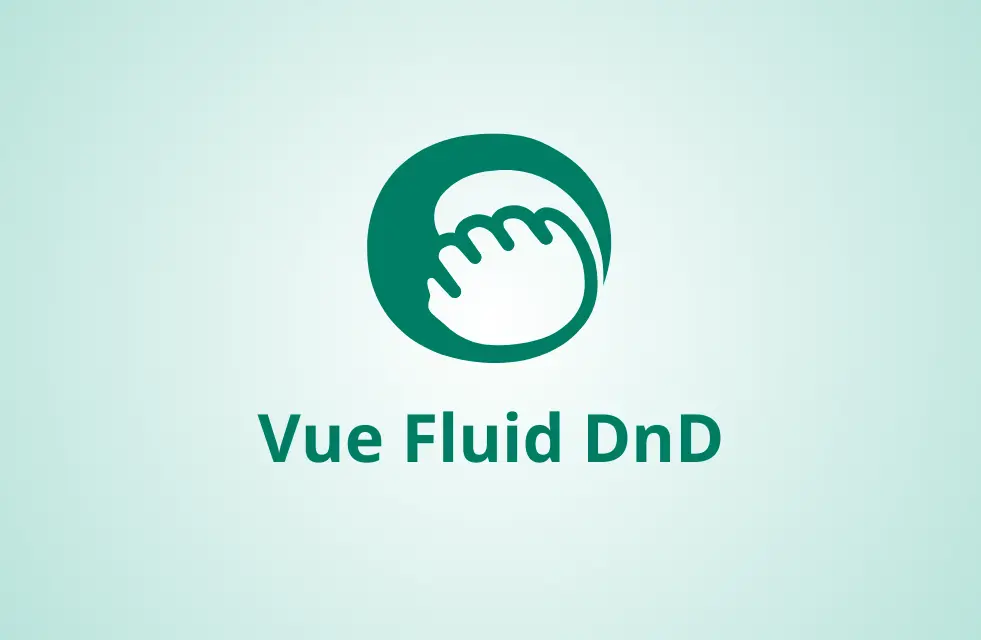
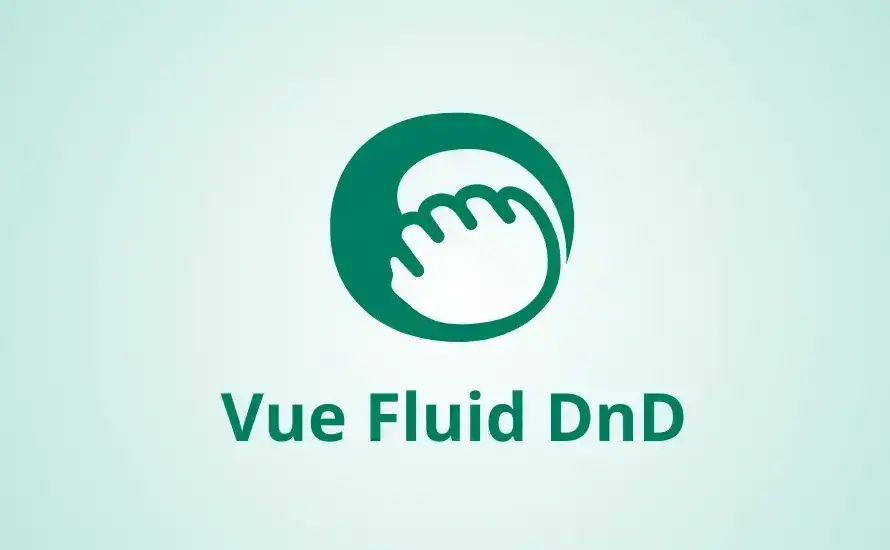
🎈 perf: change articles images ratios

diff --git a/src/styles/styles.css b/src/styles/styles.css
@@ -46,7 +46,10 @@
 	font-display: swap;
 	src: url("/fonts/Lato-BoldItalic.woff2") format("woff2");
 }
-
+h1 {
+  margin-block: 0.67em;
+  font-size: 2em;
+}
 h1,
 h2,
 h3 {
